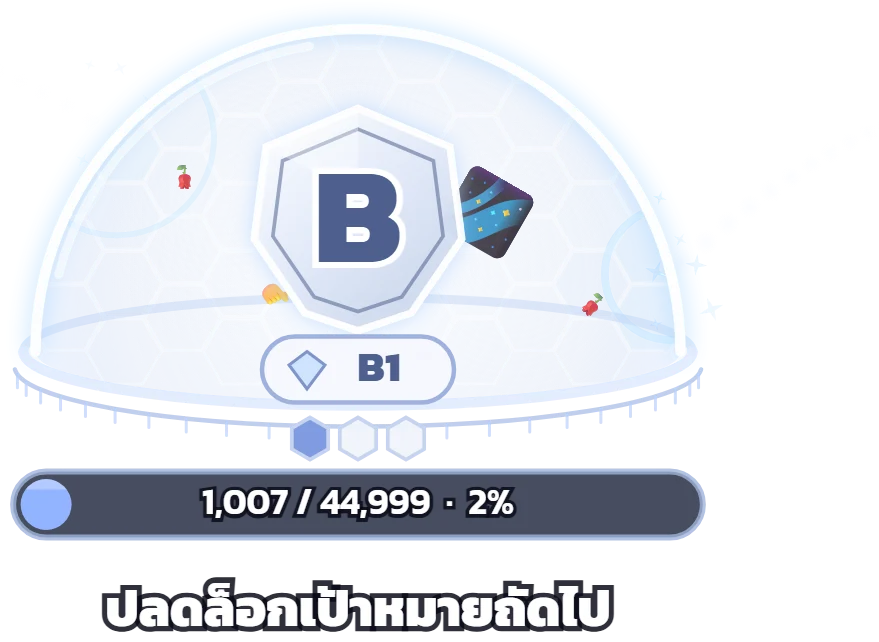
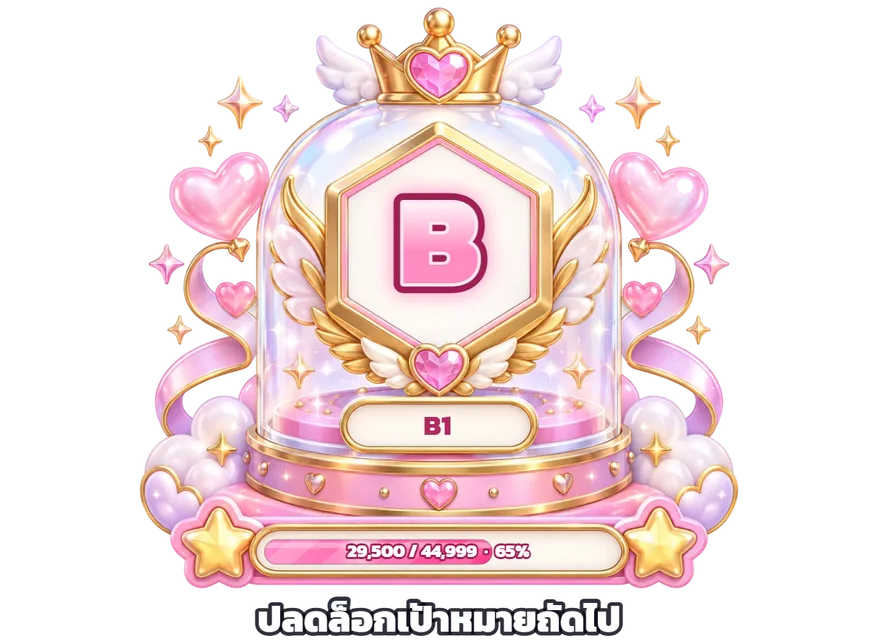
league: 10 picture-frame templates (frame=01..10) with thumbnail picker; league letter in hexagon, sub-level in plaque, themed animated bar in track
Frames keyed from docs/league PNGs (white -> transparent via border flood,
feathered, enclosed white pockets outside the dome cleared), slot boxes
(hex / plaque / track) in overlay/public/league/frames.json. Gift comets hit
and float inside the frame's glass dome; level-up celebration unchanged.
Default '' keeps the classic canvas dome. Gallery poster now shows the pink frame.

diff --git a/packages/overlay/public/league.html b/packages/overlay/public/league.html
@@ -23,6 +23,7 @@
    *   tier=B level=1 levels=3          ลีกปัจจุบัน / ระดับย่อย / จำนวนระดับย่อยต่อลีก
    *   target=44999 start=0 grow=1      เป้าหมาย / คะแนนที่มีอยู่แล้ว / ตัวคูณเป้าหมายเมื่อขึ้นระดับ
    *   label=ปลดล็อกเป้าหมายถัดไป names=1 scale=1 x=0 y=0 minCoins=0 reset=1
+   *   frame=01..10                     เทมเพลตกรอบรูปโดม (ว่าง = แบบเดิมวาดด้วยโค้ด) — ช่องต่าง ๆ ใน league/frames.json
    */
   (function () {
     const P = (k, d) => Overlay.param(k, d);
@@ -53,14 +54,47 @@
     const save = () => { try { localStorage.setItem(KEY, JSON.stringify(st)); } catch { /* storage ปิด */ } };
 
     // ---- เรขาคณิต (หน่วยออกแบบ: 0,0 = กลางล่าง) ----
-    const DC = { x: 0, y: -235 }, R = 215;              // โดม
+    const DC = { x: 0, y: -235 }; let R = 215, RY = 215; // โดม (กรอบรูป = วงรี)
+    const BADGE = { x: 0, y: -320 };                      // จุดกลางตราลีก (พลุตอนขึ้นระดับ)
+
+    // ---- เทมเพลตกรอบรูป (frame=01..10 · ช่องหกเหลี่ยม/ป้าย/แถบใน league/frames.json) ----
+    const FRAME = String(P('frame', '') || '').replace(/[^0-9]/g, '').slice(0, 2);
+    const FW = 560;                                       // กว้างกรอบ (หน่วยออกแบบ)
+    let FR = FRAME ? null : false;                        // null = กำลังโหลด · false = แบบเดิม
+    // สีต่อธีม: ตัวอักษร [บน, ล่าง], ขอบ, เรือง, แถบ [ซ้าย, ขวา], สีป้ายระดับ
+    const INK = {
+      pink: { l: ['#ffffff', '#ff8cc0'], o: '#a01f55', g: 'rgba(255,120,180,.85)', b: ['#ff8cc4', '#ff3d8f'], p: '#b02a63' },
+      gold: { l: ['#fff7d6', '#e6a92a'], o: '#5a0c16', g: 'rgba(255,205,90,.85)', b: ['#ffe08a', '#d4901c'], p: '#7a1420' },
+      neon: { l: ['#ffffff', '#5ff1ff'], o: '#1a0b3a', g: 'rgba(40,220,255,.95)', b: ['#22e6ff', '#ff2ea6'], p: '#4a1a9a' },
+      galaxy: { l: ['#ffffff', '#b9a2ff'], o: '#1b1050', g: 'rgba(160,130,255,.95)', b: ['#8fb4ff', '#b06bff'], p: '#3b2a8a' },
+      sakura: { l: ['#ffffff', '#ff9ec4'], o: '#6e0f1e', g: 'rgba(255,160,200,.85)', b: ['#ff9ec4', '#e0365a'], p: '#9a1830' },
+      candy: { l: ['#ffffff', '#ff9ad0'], o: '#a03a63', g: 'rgba(255,150,210,.85)', b: ['#8fe8cf', '#ff7ab8'], p: '#b0306a' },
+      thai: { l: ['#fff4cf', '#e0a520'], o: '#4a0808', g: 'rgba(255,200,80,.85)', b: ['#ffd76a', '#c0281e'], p: '#8a1010' },
+      ocean: { l: ['#ffffff', '#5fd8f0'], o: '#0a4a63', g: 'rgba(80,220,255,.9)', b: ['#7ff0ff', '#1a8fd0'], p: '#0f5f7a' },
+      bear: { l: ['#ffffff', '#ffa8c4'], o: '#8a3a52', g: 'rgba(255,150,190,.85)', b: ['#ff9cbc', '#e0507e'], p: '#8a3a52' },
+      boxing: { l: ['#fff2b0', '#d89a1a'], o: '#1a1206', g: 'rgba(255,200,80,.9)', b: ['#ffd76a', '#d0281e'], p: '#1a1206' },
+    };
+    if (FRAME) {
+      fetch('league/frames.json').then((r) => r.json()).then((all) => {
+        const F = all[FRAME] || all['01'], img = new Image();
+        img.onload = () => {
+          const FH = FW / F.aspect, top = -56 - FH, bx = (b) => ({ x0: -FW / 2 + b[0] * FW, y0: top + b[1] * FH, x1: -FW / 2 + b[2] * FW, y1: top + b[3] * FH });
+          FR = { img, F, FH, top, hex: bx(F.hex), plaque: bx(F.plaque), track: bx(F.track), ink: INK[F.theme] || INK.pink };
+          // โดมแก้วในภาพ ≈ x 0.21–0.79 · บน 0.11 · ฐาน 0.70 → วงรีให้ของขวัญชน/ลอยอยู่ข้างใน
+          DC.y = top + 0.70 * FH; R = 0.29 * FW; RY = 0.59 * FH;
+          BADGE.y = (FR.hex.y0 + FR.hex.y1) / 2;
+        };
+        img.onerror = () => { FR = false; };
+        img.src = 'league/frame-' + F.id + '.webp';
+      }).catch(() => { FR = false; });
+    }
     const hexes = []; const HX = 26;                     // ตาข่ายหกเหลี่ยมบนโดม
     for (let row = 0; row < 12; row++) for (let col = -10; col <= 10; col++) {
       const x = col * HX * 1.5, y = DC.y - row * HX * Math.sqrt(3) - (col & 1 ? HX * Math.sqrt(3) / 2 : 0);
       if (Math.hypot(x - DC.x, y - DC.y) < R + HX) hexes.push({ x, y, glow: 0 });
     }
     const hexPath = (x, y, r) => { ctx.beginPath(); for (let k = 0; k < 6; k++) { const a = k * Math.PI / 3; ctx.lineTo(x + Math.cos(a) * r, y + Math.sin(a) * r); } ctx.closePath(); };
-    const domeClip = () => { ctx.beginPath(); ctx.arc(DC.x, DC.y, R, Math.PI, 0); ctx.ellipse(DC.x, DC.y, R, 34, 0, 0, Math.PI); ctx.closePath(); };
+    const domeClip = () => { ctx.beginPath(); ctx.ellipse(DC.x, DC.y, R, RY, 0, Math.PI, 0); ctx.ellipse(DC.x, DC.y, R, 34 * R / 215, 0, 0, Math.PI); ctx.closePath(); };
 
     // ---- ลูกเล่น ----
     const fx = new Juice.Particles(500), badgeSpring = new Juice.Spring(220, 11), barSpring = new Juice.Spring(260, 14), shake = new Juice.Spring(300, 16);
@@ -72,7 +106,7 @@
 
     function launch(g, value, name, delay) {
       const side = Math.random() < 0.5 ? -1 : 1, a = side > 0 ? Math.PI * 2 - 0.2 - Math.random() * 1.1 : Math.PI + 0.2 + Math.random() * 1.1; // ชนด้านเดียวกับที่มา
-      const hit = { x: DC.x + Math.cos(a) * R, y: DC.y + Math.sin(a) * R };
+      const hit = { x: DC.x + Math.cos(a) * R, y: DC.y + Math.sin(a) * RY };
       const from = { x: side * (520 + Math.random() * 120), y: DC.y + 40 - Math.random() * 260 };
       const ctrl = { x: (from.x + hit.x) / 2, y: Math.min(from.y, hit.y) - 80 - Math.random() * 120 };
       const size = Math.min(24 * (Juice.sizeFor ? Juice.sizeFor(g.d, 4) : 1), 96); // ของแพงใหญ่ตามราคา (เพดาน 72)
@@ -93,7 +127,7 @@
       st.pts -= st.target; st.target = Math.round(st.target * GROW); shownPts = 0; // แถบเริ่มใหม่จาก 0
       st.lvl++; if (st.lvl > LEVELS) { st.lvl = 1; st.tier = LADDER[Math.min(LADDER.length - 1, LADDER.indexOf(st.tier) + 1)]; }
       unlockText = 'ปลดล็อก ' + st.tier + st.lvl + ' แล้ว!'; unlockT = performance.now();
-      badgeSpring.kick(-9); fx.confetti(0, -330, 70); fx.sparkle(0, -330, 24, '#ffe39a'); save();
+      badgeSpring.kick(-9); fx.confetti(BADGE.x, BADGE.y - 10, 70); fx.sparkle(BADGE.x, BADGE.y - 10, 24, '#ffe39a'); save();
     }
 
     // ---- วาด ----
@@ -110,21 +144,24 @@
         if (h.glow > 0.01) { ctx.fillStyle = `rgba(180,225,255,${0.45 * h.glow})`; ctx.fill(); h.glow *= 0.94; }
         ctx.strokeStyle = 'rgba(255,255,255,.28)'; ctx.stroke();
       }
-      // ระลอกคลื่นตอนชน
+      drawRipples();
+      ctx.restore();
+      // ฐานด้านหลัง
+      ctx.beginPath(); ctx.ellipse(DC.x, DC.y, R + 8, 36, 0, Math.PI, 0); ctx.strokeStyle = 'rgba(190,210,245,.45)'; ctx.lineWidth = 6; ctx.stroke();
+    }
+    // ระลอกคลื่นตอนชน (เรียกภายใน clip ของโดม)
+    function drawRipples() {
       for (let i = ripples.length - 1; i >= 0; i--) {
         const r = ripples[i]; r.age += 1 / 60; const k = r.age / 0.7; if (k >= 1) { ripples.splice(i, 1); continue; }
         ctx.beginPath(); ctx.arc(r.x, r.y, 10 + k * (r.big ? 190 : 110), 0, Math.PI * 2);
         ctx.strokeStyle = `rgba(200,235,255,${0.8 * (1 - k)})`; ctx.lineWidth = 6 * (1 - k) + 1; ctx.stroke();
       }
-      ctx.restore();
-      // ฐานด้านหลัง
-      ctx.beginPath(); ctx.ellipse(DC.x, DC.y, R + 8, 36, 0, Math.PI, 0); ctx.strokeStyle = 'rgba(190,210,245,.45)'; ctx.lineWidth = 6; ctx.stroke();
     }
     function drawFloaters(time) {
       ctx.save(); domeClip(); ctx.clip();
       for (const f of floaters) {
         f.age += 1 / 60; f.x += f.vx; f.y += f.vy; f.vy += 0.01; f.vx *= 0.995; f.rot += f.vr;
-        const dx = f.x - DC.x, dy = f.y - DC.y, d = Math.hypot(dx, dy), lim = R - f.size * 0.6;
+        const dx = f.x - DC.x, dy = f.y - DC.y, d = Math.hypot(dx / R, dy / RY), lim = 1 - f.size * 0.6 / R;
         if (d > lim) { f.x = DC.x + dx / d * lim; f.y = DC.y + dy / d * lim; f.vx *= -0.6; f.vy *= -0.6; }
         if (f.y > DC.y + 10) { f.y = DC.y + 10; f.vy = -Math.abs(f.vy) * 0.5 - 0.3; }
         const a = Math.max(0, Math.min(1, (8 - f.age) / 2)); if (a <= 0) continue;
@@ -193,10 +230,72 @@
       const txt = Overlay.fmt(shownPts) + ' / ' + Overlay.fmt(st.target) + '  ·  ' + Math.floor(pct * 100) + '%';
       ctx.lineWidth = 5; ctx.strokeStyle = 'rgba(10,12,25,.85)'; ctx.strokeText(txt, 0, 1); ctx.fillStyle = '#ffffff'; ctx.fillText(txt, 0, 1);
       ctx.restore();
-      // ข้อความใต้แถบ
+      drawCaption(y + 56);
+    }
+    // ข้อความใต้แถบ (ตอนขึ้นระดับ = "ปลดล็อก B2 แล้ว!")
+    function drawCaption(y) {
       const showUnlock = performance.now() - unlockT < 3500;
-      ctx.font = '800 34px Kanit, sans-serif'; ctx.lineWidth = 7; ctx.strokeStyle = 'rgba(10,12,25,.85)';
-      const t = showUnlock ? unlockText : LABEL; ctx.strokeText(t, 0, y + 56); ctx.fillStyle = showUnlock ? '#ffe39a' : '#ffffff'; ctx.fillText(t, 0, y + 56);
+      ctx.font = '800 34px Kanit, sans-serif'; ctx.textAlign = 'center'; ctx.textBaseline = 'middle'; ctx.lineWidth = 7; ctx.lineJoin = 'round'; ctx.strokeStyle = 'rgba(10,12,25,.85)';
+      const t = showUnlock ? unlockText : LABEL; ctx.strokeText(t, 0, y); ctx.fillStyle = showUnlock ? '#ffe39a' : '#ffffff'; ctx.fillText(t, 0, y);
+    }
+
+    // ---- แบบกรอบรูป ----
+    // ตัวอักษรไล่สี + ขอบหนา + เรืองแสงตามธีม พอดีกล่อง b (สูงตามสัดส่วน hk)
+    function fancyText(txt, b, hk, ink, outline) {
+      const w = b.x1 - b.x0, h = b.y1 - b.y0, cx = (b.x0 + b.x1) / 2, cy = (b.y0 + b.y1) / 2;
+      let fs = h * hk; ctx.font = `800 ${fs}px Kanit, sans-serif`;
+      const tw = ctx.measureText(txt).width; if (tw > w * 0.86) { fs *= w * 0.86 / tw; ctx.font = `800 ${fs}px Kanit, sans-serif`; }
+      ctx.textAlign = 'center'; ctx.textBaseline = 'middle'; ctx.lineJoin = 'round';
+      const y = cy + fs * 0.06;
+      const g = ctx.createLinearGradient(0, cy - fs * 0.4, 0, cy + fs * 0.4); g.addColorStop(0, ink.l[0]); g.addColorStop(0.55, ink.l[1]); g.addColorStop(1, ink.l[1]);
+      ctx.save();
+      if (outline) {
+        ctx.shadowColor = ink.g; ctx.shadowBlur = fs * 0.25;
+        ctx.lineWidth = fs * 0.16; ctx.strokeStyle = ink.o; ctx.strokeText(txt, cx, y); ctx.shadowBlur = 0;
+        ctx.lineWidth = fs * 0.05; ctx.strokeStyle = 'rgba(255,255,255,.9)'; ctx.strokeText(txt, cx, y);
+        ctx.fillStyle = g; ctx.fillText(txt, cx, y);
+      } else { ctx.fillStyle = ink.p; ctx.fillText(txt, cx, y); }
+      ctx.restore();
+    }
+    function drawFramedBack() {
+      ctx.drawImage(FR.img, -FW / 2, FR.top, FW, FR.FH);
+      ctx.save(); domeClip(); ctx.clip(); drawRipples(); ctx.restore();
+    }
+    function drawFramedFront(time) {
+      const ink = FR.ink, hb = FR.hex, cx = (hb.x0 + hb.x1) / 2, cy = (hb.y0 + hb.y1) / 2;
+      // ตัวอักษรลีกในหกเหลี่ยม (เด้งตอนขึ้นระดับ)
+      const s = (1 + Math.max(-0.3, Math.min(0.4, -badgeSpring.x * 0.04))) * Juice.breathe(time, 0.015, 0.4);
+      ctx.save(); ctx.translate(cx, cy); ctx.scale(s, s); ctx.translate(-cx, -cy);
+      fancyText(st.tier, hb, 0.62, ink, true);
+      ctx.restore();
+      // ระดับย่อยในป้าย
+      fancyText(st.tier + st.lvl, FR.plaque, 0.72, ink, false);
+      // แถบความคืบหน้า (ด้านในราง)
+      shownPts += (st.pts - shownPts) * 0.12; if (Math.abs(st.pts - shownPts) < 0.5) shownPts = st.pts;
+      const pct = Math.max(0, Math.min(1, shownPts / st.target)), tb = FR.track;
+      const th = tb.y1 - tb.y0, ins = th * 0.16, x0 = tb.x0 + ins, y0 = tb.y0 + ins, iw = tb.x1 - tb.x0 - ins * 2, ih = th - ins * 2;
+      const bump = 1 + Math.max(-0.04, Math.min(0.05, barSpring.x * 0.015)), bcx = (tb.x0 + tb.x1) / 2, bcy = (tb.y0 + tb.y1) / 2;
+      ctx.save(); ctx.translate(bcx, bcy); ctx.scale(bump, bump); ctx.translate(-bcx, -bcy);
+      if (pct > 0) {
+        const fw = Math.max(ih, iw * pct);
+        ctx.save(); ctx.beginPath(); ctx.roundRect(x0, y0, fw, ih, ih / 2); ctx.clip();
+        const g = ctx.createLinearGradient(x0, 0, x0 + fw, 0); g.addColorStop(0, ink.b[0]); g.addColorStop(1, ink.b[1]);
+        ctx.fillStyle = g; ctx.fillRect(x0, y0, fw, ih);
+        // แถบเฉียงวิ่ง + ไฮไลต์ด้านบน
+        ctx.fillStyle = 'rgba(255,255,255,.18)'; const st2 = ih * 1.2, off = (time * 40) % (st2 * 2);
+        for (let x = x0 - st2 * 2 + off; x < x0 + fw; x += st2 * 2) { ctx.beginPath(); ctx.moveTo(x, y0 + ih); ctx.lineTo(x + st2, y0 + ih); ctx.lineTo(x + st2 * 2, y0); ctx.lineTo(x + st2, y0); ctx.closePath(); ctx.fill(); }
+        ctx.fillStyle = 'rgba(255,255,255,.35)'; ctx.fillRect(x0, y0 + ih * 0.12, fw, ih * 0.22);
+        // ประกายที่ปลายแถบ
+        const sx = x0 + (time * 0.45 % 1.4) * fw; const sg = ctx.createLinearGradient(sx - ih, 0, sx + ih, 0);
+        sg.addColorStop(0, 'rgba(255,255,255,0)'); sg.addColorStop(0.5, 'rgba(255,255,255,.55)'); sg.addColorStop(1, 'rgba(255,255,255,0)'); ctx.fillStyle = sg; ctx.fillRect(sx - ih, y0, ih * 2, ih);
+        ctx.restore();
+        ctx.beginPath(); ctx.roundRect(x0, y0, fw, ih, ih / 2); ctx.lineWidth = 1.5; ctx.strokeStyle = 'rgba(0,0,0,.18)'; ctx.stroke();
+      }
+      const fs = ih * 0.72; ctx.font = `700 ${fs}px Kanit, sans-serif`; ctx.textAlign = 'center'; ctx.textBaseline = 'middle'; ctx.lineJoin = 'round';
+      const txt = Overlay.fmt(shownPts) + ' / ' + Overlay.fmt(st.target) + '  ·  ' + Math.floor(pct * 100) + '%';
+      ctx.lineWidth = fs * 0.22; ctx.strokeStyle = ink.o; ctx.strokeText(txt, bcx, bcy + fs * 0.05); ctx.fillStyle = '#ffffff'; ctx.fillText(txt, bcx, bcy + fs * 0.05);
+      ctx.restore();
+      drawCaption(-26);
     }
     function drawComets(dt) {
       for (let i = comets.length - 1; i >= 0; i--) {
@@ -235,7 +334,8 @@
       badgeSpring.step(dt); barSpring.step(dt); shake.step(dt);
       ctx.setTransform(DPR, 0, 0, DPR, 0, 0); ctx.clearRect(0, 0, W, H); ctx.imageSmoothingQuality = 'high';
       const o = origin(), s = S(); ctx.translate(o.x + shake.x * Math.sin(now * 0.09), o.y + shake.x * 0.5 * Math.cos(now * 0.11)); ctx.scale(s, s);
-      drawDomeBack(time); drawFloaters(time); drawBadge(time); drawDomeFront(time); drawBar();
+      if (FR) { drawFramedBack(); drawFloaters(time); drawFramedFront(time); }
+      else if (FR === false) { drawDomeBack(time); drawFloaters(time); drawBadge(time); drawDomeFront(time); drawBar(); }
       drawTrail(); drawComets(dt); fx.step(); fx.draw(ctx);
       requestAnimationFrame(frame);
     }

diff --git a/packages/dashboard/lib/widgetSettings.ts b/packages/dashboard/lib/widgetSettings.ts
@@ -333,6 +333,13 @@ export const WIDGET_SETTINGS: Record<string, WidgetSettingsDef> = {
   league: {
     resettable: 'ล้างคะแนนลีก (เริ่มจากค่าตั้งต้น)',
     sections: [
+      // กรอบรูปโดมลีก 10 ธีม (overlay/public/league/frame-XX.webp · ช่องตัวอักษร/ป้าย/แถบใน league/frames.json) — ว่าง = แบบเดิม
+      { title: 'เทมเพลต', fields: [
+        { key: 'frame', label: 'เทมเพลต', type: 'select', def: '', options: [
+          ['', '🎨 แบบเดิม', '', '/overlay/league/thumb-classic.webp'],
+          ...MVP_FRAMES.map(([id, l]): [string, string, string, string] => [id, l, '', `/overlay/league/thumb-${id}.webp`]),
+        ] },
+      ] },
       { title: 'ลีกและเป้าหมาย', fields: [
         { key: 'tier', label: 'ลีกปัจจุบัน', type: 'select', def: 'B', options: [['D', 'D'], ['C', 'C'], ['B', 'B'], ['A', 'A'], ['S', 'S']] },
         { key: 'level', label: 'ระดับย่อยปัจจุบัน', type: 'number', min: 1, max: 9, def: 1, hint: 'เช่น B1 = 1' },
